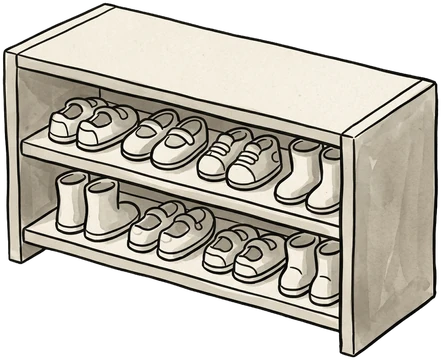
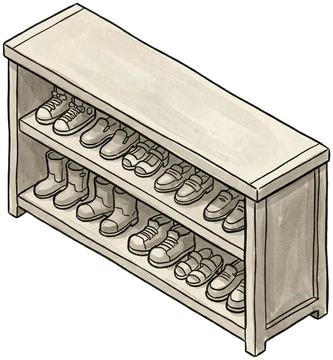
Tub and shoe rack repainted for the 2.5D camera
Both were painted again with the camera guide and the 2.5D prompt, so they
need no lean. The tub lies along the bathroom's back wall. The shoe rack came
out two tiles long, so it stands along the hall's west wall by the front door.

Claude-Session: https://claude.ai/code/session_01Mx43sqJ2Z7P97x8DVRr7c3

diff --git a/src/game/house.js b/src/game/house.js
@@ -64,7 +64,7 @@ export function placeName(x, y) {
 
 // Solid furniture. `at` is its tile, `size` its drawn height in tiles, `front` how far its picture stands toward
 // the camera from the tile's middle (the pictures are drawn from their front corner). `more` lists any other
-// tiles a wide thing covers. A thing whose picture is not painted yet is drawn as a grey labelled box
+// tiles a wide thing covers, and `shift` [x, y] slides its picture so it sits over all of them. A thing whose picture is not painted yet is drawn as a grey labelled box
 // (src/game/art.js LATER). `flip` mirrors a picture so its front faces into the room. The camera looks from the south-east, so the tall things stand against the north and
 // west walls of a room and nothing tall stands in front of a place a kid waits.
 // Which things, and where, is a draft of Nov 21 that Carl said go on. Each thing belongs to a need of its room.
@@ -82,7 +82,7 @@ export const PROPS = [
   { id: 'vanity', at: [8, 1], img: 'vanity', size: 1.8, front: 0.2 },
   { id: 'sink', at: [10, 1], img: 'sink', size: 2.0, front: 0.2 },
   { id: 'toilet', at: [11, 1], img: 'toilet', size: 1.3, front: 0.2 },
-  { id: 'tub', at: [12, 1], more: [[13, 1]], img: 'tub', size: 1.35, front: 0.2, shift: 0.5, flip: true, lean: 0.3 },
+  { id: 'tub', at: [12, 1], more: [[13, 1]], img: 'tub', size: 1.72, front: 0.2, shift: [0.5, 0] },
   { id: 'towels', at: [8, 4], img: 'towels', size: 1.6, front: 0.2, flip: true },
   // Cubby room: the kids sleep in cubbies, not beds. Five stacks of two along the wall is ten cubbies.
   ...[7, 8, 9, 10, 11].map((y, i) => ({ id: 'cubby-' + i, at: [1, y], img: 'cubbies', size: 2.0, front: 0.2, flip: true })),
@@ -90,7 +90,8 @@ export const PROPS = [
   { id: 'desk', at: [5, 7], img: 'desk', size: 1.4, front: 0.2 },
   { id: 'coats', at: [6, 7], img: 'coat-rack', size: 1.9, front: 0.2 },
   // Front hall: permission slip, backpack, show-and-tell, shoes
-  { id: 'shoes', at: [9, 7], img: 'shoe-rack', size: 1.0, front: 0.2, lean: 0.22 },
+  // the shoe rack is two tiles long, so it stands along the west wall by the front door
+  { id: 'shoes', at: [8, 10], more: [[8, 11]], img: 'shoe-rack', size: 1.85, front: 0.2, shift: [0, 0.5], flip: true },
   { id: 'hooks', at: [8, 7], img: 'backpack-hooks', size: 1.9, front: 0.2, flip: true },
   { id: 'hall-table', at: [13, 7], img: 'hall-table', size: 1.15, front: 0.2 },
   { id: 'shelf', at: [12, 7], img: 'show-shelf', size: 2.2, front: 0.2 },
@@ -116,7 +117,7 @@ export const SPOTS = {
   kitchen: mid([[4, 1], [6, 1], [2, 2], [1, 5], [5, 5], [6, 5]]),
   bath: mid([[9, 2], [11, 2], [13, 2], [13, 4], [8, 5], [12, 5]]),
   cubby: mid([[2, 8], [2, 10], [4, 8], [6, 8], [4, 11], [6, 11]]),
-  hall: mid([[8, 8], [9, 8], [12, 8], [13, 9], [8, 11], [13, 11]]),
+  hall: mid([[8, 8], [9, 8], [12, 8], [13, 9], [9, 11], [13, 11]]),
 }
 
 // Every floor tile of a room a kid can walk to (not furniture), or of all four rooms when no room is named.

diff --git a/src/game/world.js b/src/game/world.js
@@ -60,8 +60,7 @@ export async function startGame(canvas, hooks = {}) {
   }
   const still = [
     // furniture is drawn from its front corner, so its card stands a little toward the camera (south-east) of the tile's middle
-    // (`shift` slides a wide thing along the wall so it sits over all of its tiles)
-    ...PROPS.map((p) => ({ id: p.id, at: [p.at[0] + 0.5 + p.front + (p.shift ?? 0), p.at[1] + 0.5 + p.front], level: 0, ...shape(img[p.img], p) })),
+    ...PROPS.map((p) => ({ id: p.id, at: [p.at[0] + 0.5 + p.front + (p.shift?.[0] ?? 0), p.at[1] + 0.5 + p.front + (p.shift?.[1] ?? 0)], level: 0, ...shape(img[p.img], p) })),
     ...SMALL.map((s) => ({ id: s.id, at: s.at, level: s.up, ...shape(img[s.img], s) })),
   ]
   // every kid gets the same walker as Dreko, only sized to their height and a touch quicker
